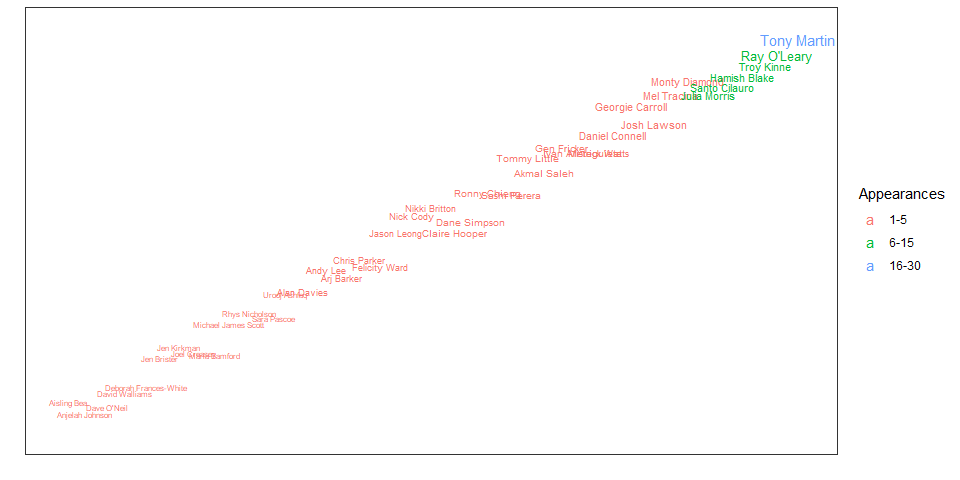
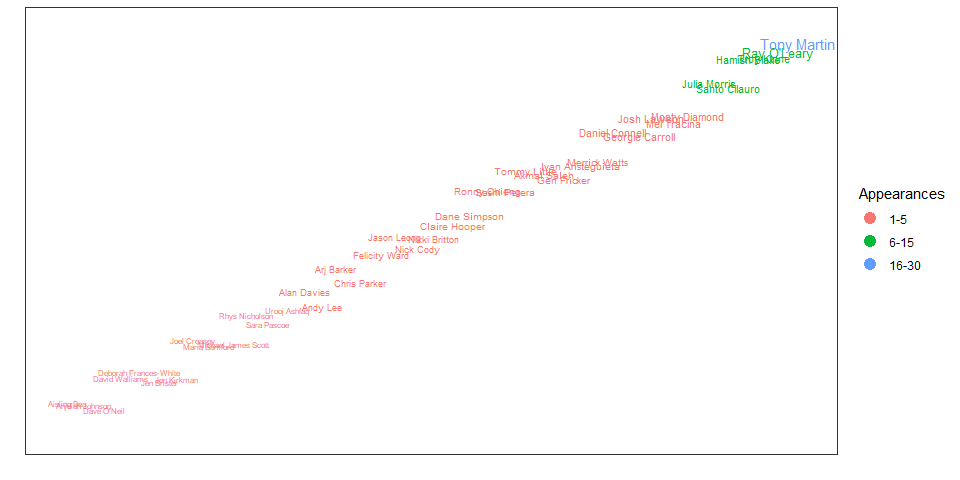
update text

Changed region(s): [[0.0625, 0.0625, 0.875, 0.875], [0.875, 0.5312, 0.9375, 0.5625], [0.875, 0.4375, 0.9375, 0.4688]]

diff --git a/Title.md b/Title.md
@@ -26,7 +26,7 @@ So firstly, how often have the panelists appeared?
 
 ![](Title_files/figure-gfm/unnamed-chunk-1-1.png)<!-- -->
 
-Ed and Sam unsurprisingly have the most appearances, with Celia Pecquola
+Ed and Sam unsurprisingly have the most appearances, with Kitty Flanagan
 coming in a distant third.
 
 The next obvious question is, of those who have won, who has the most
@@ -49,13 +49,13 @@ take both of these things into account. Let’s define a panelist’s
 
 ![](Title_files/figure-gfm/unnamed-chunk-3-1.png)<!-- -->
 
-Ed isn’t the front runner anymore. Now we have Harry Shearer up the
-front with a perfect Strike Rate, closely followed by Amanda Keller at
-93% and Michala Banas at 83%. At the other end, with Strike Rates close
-to 0 we have Mick Malloy with a strike Rate of 2.5%, the hilarious Kitty
-Flanagen at 5.7%, and our favourite panelist who hates every segment Sam
-Peng with 5.8%. Ed has disappeared close to the middle with a Strike
-Rate of 35%.
+Ed isn’t the front runner anymore. Now we have Harry Shearer Harry
+Shearer up the front with 100%, a perfect Strike Rate. Closely followed
+by Amanda Keller at 88.9% and Michala Banas at 83.3%. At the other end,
+with Strike Rates close to 0 we have Kitty Flanagan with a strike Rate
+of 3.7%, the hilarious Denise Scott at 4.8%, and Hayley Sproull with
+5.6%. Ed has disappeared close to the middle with a Strike Rate of
+34.8%.
 
 ## How have panelists gone over time?
 
@@ -67,8 +67,8 @@ win.
 ![](Title_files/figure-gfm/unnamed-chunk-4-1.png)<!-- -->![](Title_files/figure-gfm/unnamed-chunk-4-2.png)<!-- -->![](Title_files/figure-gfm/unnamed-chunk-4-3.png)<!-- -->![](Title_files/figure-gfm/unnamed-chunk-4-4.png)<!-- -->
 
 We can see that Ed has been sitting pretty consistently around 30-35%
-for a while. Amanda has been doing nothing but increase her Strike Rate
-for ages after a couple of early losses.
+for a while. Amanda has been mostly increasing her Strike Rate after a
+couple of early losses.
 
 ## Adjusted Strike Rate
 
@@ -83,47 +83,33 @@ Rates of the panelists they beat divided by their number of appearances.
 That way, if a panelist beats opposing panelists who have high Strike
 Rates, that win will contribute more to the Aggregated Strike Rate.
 
-For example, *at the end of 2022* Maelanie Bracewell has won twice and
-has a Strike Rate of 6.9% (due to her 29 appearances). In the Adjusted
-Strike Rate, instead of 2/29, we add up the Strike Rate of the eight
-panelists (two lots of four) and divide that by 29. The panelists
+For example, *at May 2022* Maelanie Bracewell had won twice and had a
+Strike Rate of 6.9% (due to her 29 appearances at the time). In the
+Adjusted Strike Rate, instead of 2/29, we add up the Strike Rate of the
+eight panelists (two lots of four) and divide that by 29. The panelists
 Melanie beat were Ed Kavalee (35%, twice), Ash London (50%), Marty
 Sheargold (29%), Sam Pang (5.8%, twice), Tim McDonald (8.3%), and Kitty
-Flanagan (5.7%). So Melanie’s Adjusted Strike Rate
+Flanagan (5.7%). So Melanie’s Adjusted Strike Rate in May 2022
 $= (0.35 \times 2 + 0.5 + 0.29 + 0.058 \times 2 + 0.083 + 0.057)/2 \approx 0.015$
 
 ![](Title_files/figure-gfm/unnamed-chunk-5-1.png)<!-- -->
 
 Some things have changed, but some things haven’t. Harry Shearer still
 has the best Adjusted Strike Rate, with Amanda Keller not far behind.
-Michala Banas is now 4th, Neroli Meadows taking third. Mick Malloy is
-still bringing up the rear with Kitty Flanagan keeping him company,
-However Sam has jumped up a spot with Lehmo dropping a number of
-positions.
+Michala Banas is now 3rd, Neroli Meadows taking fourth. Denise scott is
+bringing up the rear with Kitty Flanagan keeping them company.
 
 Let’s look at all the changes in position (rank)
 
 ![](Title_files/figure-gfm/unnamed-chunk-6-1.png)<!-- -->
 
-So the most common change in rank is ‘no change’. The two biggest jumps
-are Kate Langbrook (3 wins, 21 appearances) and Neroli Meadows (2 wins,
-5 appearances).
+<!-- So the most common change in rank is 'no change'. The two biggest jumps are Kate Langbrook (3 wins, 21 appearances) and Neroli Meadows (2 wins, 5 appearances).  -->
 
-Kate beat Ed Kavalee (SR = 35%, thrice), Lawrence Mooney (SR = 43%), Arj
-Barker (no wins), Peter Helliar (SR = 44%), Michala Banas (SR = 83%),
-Dave Hughes (SR = 18%), Sam Pang (SR = 6%, twice), Jane Kennedy (SR =
-15%), and Josh Lawson (no wins). Her jump likely comes mainly from
-beating Michala.
+<!-- Kate beat Ed Kavalee (SR = 35%, thrice), Lawrence Mooney (SR = 43%), Arj Barker (no wins), Peter Helliar (SR = 44%), Michala Banas (SR = 83%), Dave Hughes (SR = 18%), Sam Pang (SR = 6%, twice), Jane Kennedy (SR = 15%), and Josh Lawson (no wins). Her jump likely comes mainly from beating Michala.  -->
 
-Neroli beat Ed Kavalee (SR = 35%, twice), Glenn Robbins (SR = 19%),
-Akmal Saleh (no wins), Sam Pang (SR = 6%, twice), Amanda Keller (SR =
-93%), and Marty Sheargold (SR = 29%). Beating Amanda Keller would
-contribute a lot to Neroli’s jump.
+<!-- Neroli beat Ed Kavalee (SR = 35%, twice), Glenn Robbins (SR = 19%), Akmal Saleh (no wins), Sam Pang (SR = 6%, twice), Amanda Keller (SR = 93%), and Marty Sheargold (SR = 29%). Beating Amanda Keller would contribute a lot to Neroli's jump.  -->
 
-Harry Shearer may be the highest rank in both scoring methods, but he
-has only been a panelist once. Without playing multiple times, we don’t
-know if he will be a consistently high scorer. Amanda Keller is a high
-ranker after 15 appearances.
+<!-- Harry Shearer may be the highest rank in both scoring methods, but he has only been a panelist once. Without playing multiple times, we don't know if he will be a consistently high scorer. Amanda Keller is a high ranker after 15 appearances. -->
 
 # Those Who Never Win
 
@@ -132,7 +118,7 @@ show.
 
 ![](Title_files/figure-gfm/unnamed-chunk-7-1.png)<!-- -->
 
-So Tony Martin, Denise Scott, and Hayley Sproull each have a number of
+So Tony Martin, Ray O’Leary, and Troy Kinne each have a number of
 appearances but no wins as of yet. Hopefully in the future the pay a bit
 more attention to the happenings of the week.
 
@@ -141,19 +127,20 @@ more attention to the happenings of the week.
 Perhaps we need a different approach entirely, that way we can give a
 ranking to panelists who don’t win. Why would we want to give a
 score/rank to someone who has never won? Who is a better performing
-panelist between Sarah Pascoe, who has been on the show once and lost,
-and Tim Mcdonald, who has been on the show 12 times but only won once?
-It isn’t a straightforward comparison, but we could argue that Sarah
-shouldn’t be ranked lower than Tim, a he’s had 11 losses to Sarah’s one.
+panelist between Aisling Bea, who has been on the show once and lost,
+and Denise Scott, who has been on the show 21 times but only won once?
+It isn’t a straightforward comparison, but we could argue that Aisling
+shouldn’t be ranked lower than Denise, a they’ve had 20 losses to
+Aisling’s one.
 
 Using the methodology outlined in
-<https://towardsdatascience.com/developing-a-generalized-elo-rating-system-for-multiplayer-games-b9b495e87802>
-, we can calculate multiplayer Elo ratings . Elo ratings have
-traditionally been used in 1 vs 1 games like chess and team vs team
-games like football leagues. But we can extend it to multiplayer games.
-This is useful as it means we can also rank players who never win. For
-our calculations, every player starts with a rating of 1000, which
-changes each time they appear (increase for win and decrease for loss).
+<https://towardsdatascience.com/developing-a-generalized-elo-rating-system-for-multiplayer-games-b9b495e87802>,
+we can calculate multiplayer Elo ratings. Elo ratings have traditionally
+been used in 1 vs 1 games like chess and team vs team games like
+football leagues. But we can extend it to multiplayer games. This is
+useful as it means we can also rank players who never win. For our
+calculations, every player starts with a rating of 1000, which changes
+each time they appear (increase for win and decrease for loss).
 
 ![](Title_files/figure-gfm/Elo%20rating-1.png)<!-- -->![](Title_files/figure-gfm/Elo%20rating-2.png)<!-- -->![](Title_files/figure-gfm/Elo%20rating-3.png)<!-- -->![](Title_files/figure-gfm/Elo%20rating-4.png)<!-- -->![](Title_files/figure-gfm/Elo%20rating-5.png)<!-- -->
 
@@ -168,9 +155,9 @@ perhaps provide a fairer cost function to those who narrowly lose as
 opposed to those who lose by a lot.
 
 We can see from the different ranking methods, that panelists who appear
-a lot but don’t win a lot (i.e. Sam Pang, Kitty Flanagan) have a lower
-Elo rating than panelists who have never won but who have only appeared
-a few times (i.e. Joel Creasey and Sarah Pascoe).
+a lot but don’t win a lot (i.e. Kitty Flanagan and Celia Pacquola) have
+a lower Elo rating than panelists who have never won but who have only
+appeared a few times (i.e. Joel Creasey and Sarah Pascoe).
 
 Amanda Keller has the top ranking with Elo ratings, with Harry Shear
 dropping down the ranks.
@@ -192,12 +179,14 @@ footage) would be fascinating.
 # A Conclusion
 
 So what can we conclude from all of this; who is the best and who is the
-worst? I think we can conclude that Mick Molloy is the most unlikely
-winner with the lowest strike rate, Tony Martin is the poorest
-performing panelist with no wins from 18 appearances, and Amanda Keller
-appears to be the best performing panelist with a strike rate (and
-adjusted strike rate) second only to one time panelist Harry Shearer. Of
-course as we have seen, Strike Rates can change rapidly. Ideally we
-would want that finer level of data to really tease out which panelist
-has been paying the most attention. And in the end, I think we are the
-winners because we get to watch the show.
+worst? I think we can conclude that Kitty Flanagan is the most unlikely
+winner with the lowest strike rate and Elo Rating, Tony Martin is the
+poorest performing panelist with no wins from 27 appearances, and Amanda
+Keller appears to be the best performing panelist with a strike rate
+(and adjusted strike rate) second only to one time panelist Harry
+Shearer. Of course as we have seen, Strike Rates and Elo Ratings can
+change rapidly. Ideally we would want that finer level of data to really
+tease out which panelist has been paying the most attention. And in the
+end, I think we are the winners because we get to watch the show.
+
+*Results up to date as of 24/09/2025*
